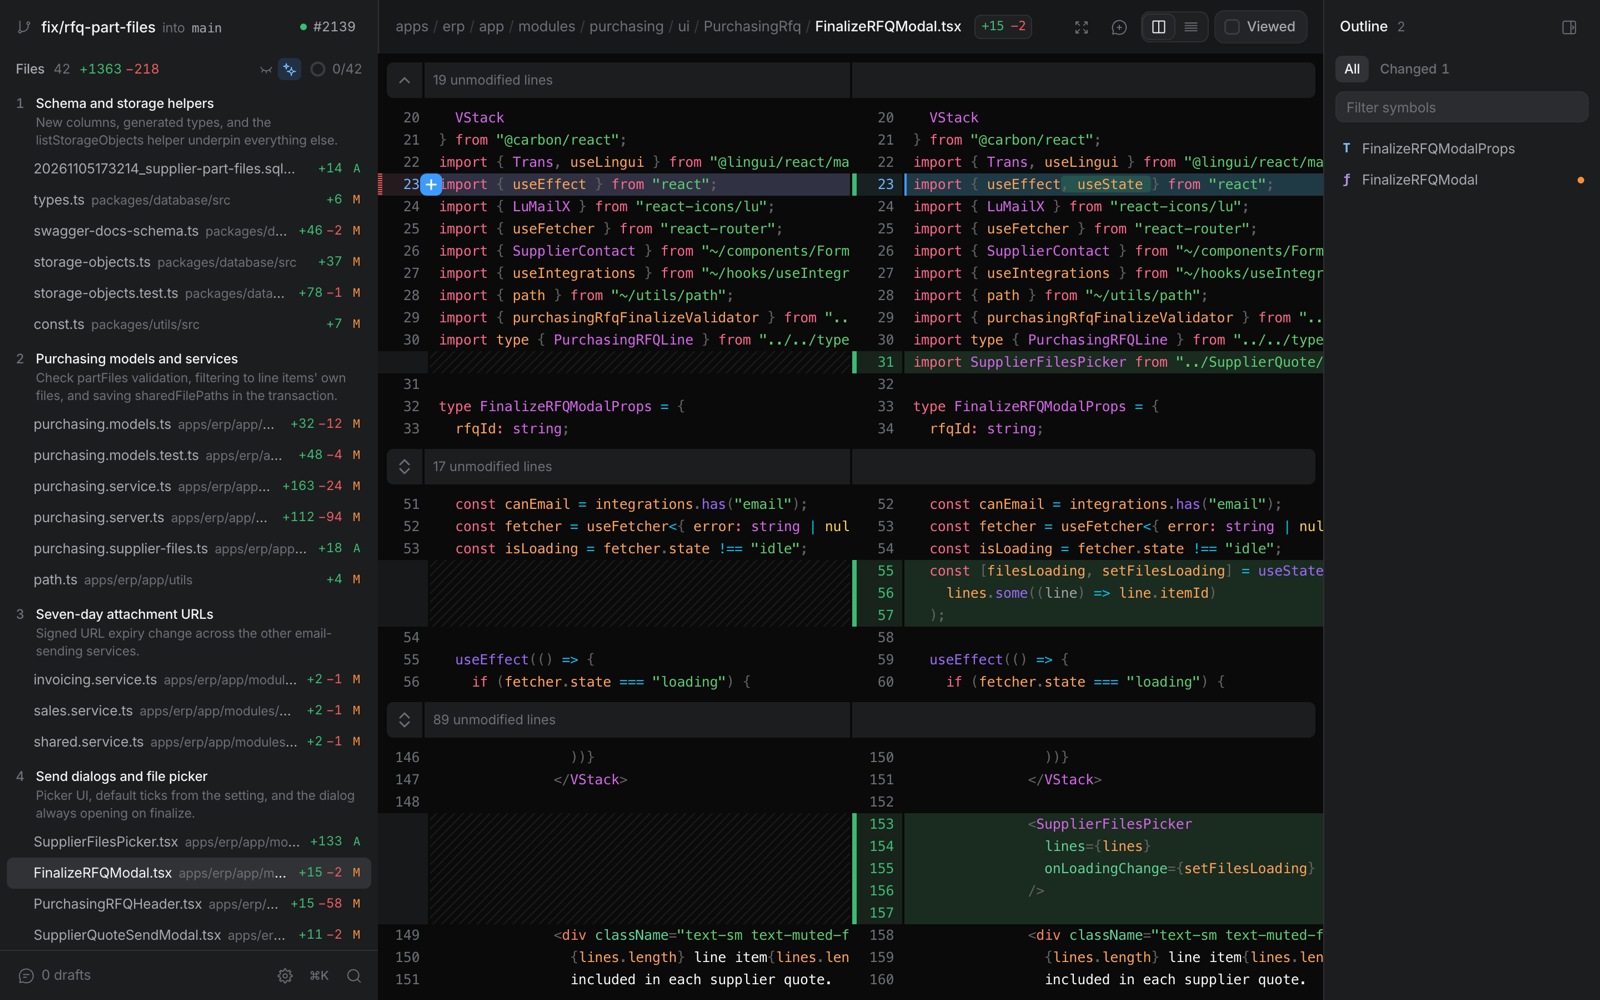
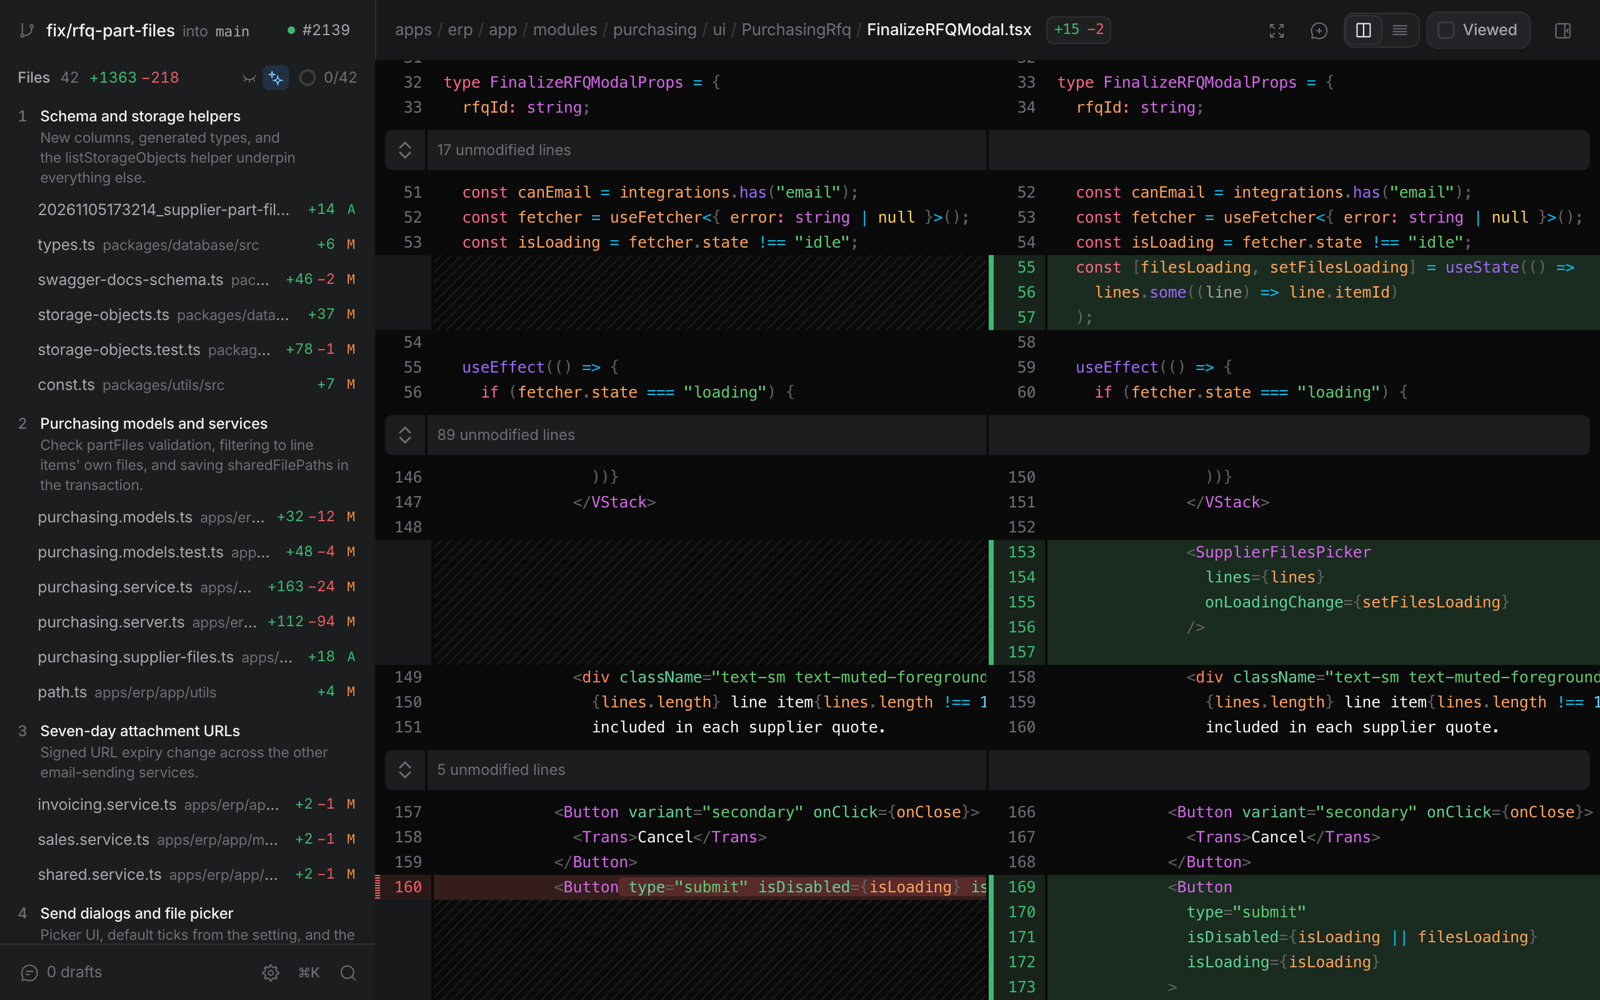
readme: simpler shots, lead with navigation, search and customisation

diff --git a/README.md b/README.md
@@ -2,13 +2,17 @@
 
 <h1 align="center">nit</h1>
 
-A keyboard-first code review tool that runs on your machine, with Claude as a second reader.
+A keyboard-first code review tool for engineers who read the code. Claude helps when you ask.
 
-`nit` opens your branch, or any pull request, as a page in your browser. You read it with the keyboard, leave comments, ask Claude about the parts you're unsure of, and post one review to GitHub when you're done.
+`nit` opens your branch, or any pull request, in your browser: a fast diff, code navigation that understands the language, search across the whole repository, and the keyboard for everything. You read, comment, and post one review to GitHub. Claude is there when you want a second reader, and stays out of the way when you don't.
 
 **[sidwebworks.com/things/nit](https://sidwebworks.com/things/nit)**
 
-![nit reviewing a pull request: the files in Claude's reading order, a side-by-side diff and the file's outline](https://raw.githubusercontent.com/sidwebworks/nit/main/docs/media/hero.png)
+![nit reviewing a pull request: the files in reading order and a side-by-side diff](https://raw.githubusercontent.com/sidwebworks/nit/main/docs/media/hero.png)
+
+- **Local.** One binary on your machine. Your reviews, drafts and keys never leave it.
+- **Keyboard first.** Every action has a key, and `⌘K` finds the rest.
+- **Assisted, not driven.** Claude answers when you ask. It never comments, approves or changes code on its own.
 
 ## Install
 
@@ -34,23 +38,27 @@ nit starts a local server and opens a tab. Press `⌘K` for every file and actio
 
 ## What it does
 
-**Read it in order.** Guide asks Claude to sort the files into a few chapters, the heart of the change first. Lockfiles, generated code, tests, docs and whitespace-only changes can be set aside, as your `.gitattributes` or plain conventions say.
+**Go to definition, without a language server.** nit reads the code with tree-sitter, in the diff and in any file you open: an outline of every file, go to definition, and find references, shown in place under the line. TypeScript, JavaScript, Python, Go, Rust, Java, C#, Ruby, PHP and C++, with nothing to install, configure or index.
 
-**Ask about any lines.** Select lines and press `⌘I`. Claude reads the code around them and the project's guidelines, and answers under the lines. Conversations are kept with the review and never posted.
+![Find references, shown in place under the line](https://raw.githubusercontent.com/sidwebworks/nit/main/docs/media/references.png)
 
-![Asking Claude what could go wrong with the selected lines](https://raw.githubusercontent.com/sidwebworks/nit/main/docs/media/ask.gif)
-
-**Comment, then post once.** Comments and suggested changes work as on GitHub, saved as you type. Post them all as one review, or hand them to Claude to apply.
-
-![Draft comments, one with a suggested change](https://raw.githubusercontent.com/sidwebworks/nit/main/docs/media/comments.png)
-
-**Search the whole repo.** `⌘⇧F` searches every file, with results as code. `⌘`-click a name to peek at its definition.
+**Search the whole repository.** `⌘⇧F` searches every file, not just the diff, through [fff](https://github.com/dmtrKovalenko/fff)'s native index. Matches show as code, and stay highlighted in the file you open. Regex and case-sensitive search are a key away.
 
 ![Repository-wide search](https://raw.githubusercontent.com/sidwebworks/nit/main/docs/media/search.png)
 
-**The whole pull request.** The description, the checks (with flagged lines in the diff) and the linked Linear issue. A viewed file that changes again is unmarked, and can show just what changed since you looked.
+**Claude, when you ask.** Select lines and press `⌘I`. Claude reads the code around them with the same navigation and search, checks the project's guidelines, and answers under the lines. It can also suggest an order to read the files in, or draft comments you accept or drop. Conversations stay on your machine.
 
-![The pull request drawer](https://raw.githubusercontent.com/sidwebworks/nit/main/docs/media/pr.png)
+![Asking Claude about the selected lines](https://raw.githubusercontent.com/sidwebworks/nit/main/docs/media/ask.gif)
+
+**Comments and suggestions, posted as one review.** `c` comments on the selected lines; a suggested change shows as a diff, as on GitHub. Drafts save as you type, and the review posts in one go: Comment, Approve or Request changes.
+
+![A draft comment with a suggested change](https://raw.githubusercontent.com/sidwebworks/nit/main/docs/media/comment.png)
+
+**Make it yours.** Any Pierre or Shiki theme (one for light, one for dark), code size, layout and wrapping. `o` opens the file at the line in your editor, and pull requests check out with your own command. Settings live in `~/.config/nit/config.toml`; a repository's `.nit.toml` can override them.
+
+![Settings: your editor and checkout commands](https://raw.githubusercontent.com/sidwebworks/nit/main/docs/media/settings.png)
+
+**Also:** a reading order Claude suggests, setting aside lockfiles, generated code, tests, docs and whitespace-only changes, re-reviewing files that changed since you viewed them, and the pull request's description, checks, CI-flagged lines and linked Linear issue.
 
 ## Keyboard
 
@@ -60,8 +68,9 @@ nit starts a local server and opens a tab. Press `⌘K` for every file and actio
 | `n` `p` | Next and previous change |
 | `c` | Comment on the selected lines |
 | `⌘I` | Ask Claude about them |
-| `v` | Mark the file viewed |
 | `g` `d` | Go to definition |
+| `o` | Open in your editor |
+| `v` | Mark the file viewed |
 | `⌘⇧F` | Search the repository |
 | `⌘K` | Every file and action |
 | `⌘⇧↵` | Review and post |
@@ -70,7 +79,7 @@ nit starts a local server and opens a tab. Press `⌘K` for every file and actio
 
 - **git.** nit reviews the repository you run it in.
 - **GitHub**, for pull requests: your `gh` login, or a token saved in Settings (kept in your keychain).
-- **Claude**, for the Claude features: [Claude Code](https://claude.com/claude-code) installed, and an Anthropic API key saved in Settings. Everything else works without it.
+- **Claude**, optional: [Claude Code](https://claude.com/claude-code), signed in with your Claude account or an Anthropic API key saved in Settings. Everything else works without it.
 
 Reviews, drafts and settings stay on your machine, in `~/.local/share/nit` (or `$NIT_DATA_DIR`). nit talks to GitHub and Anthropic, and nothing else.
 
